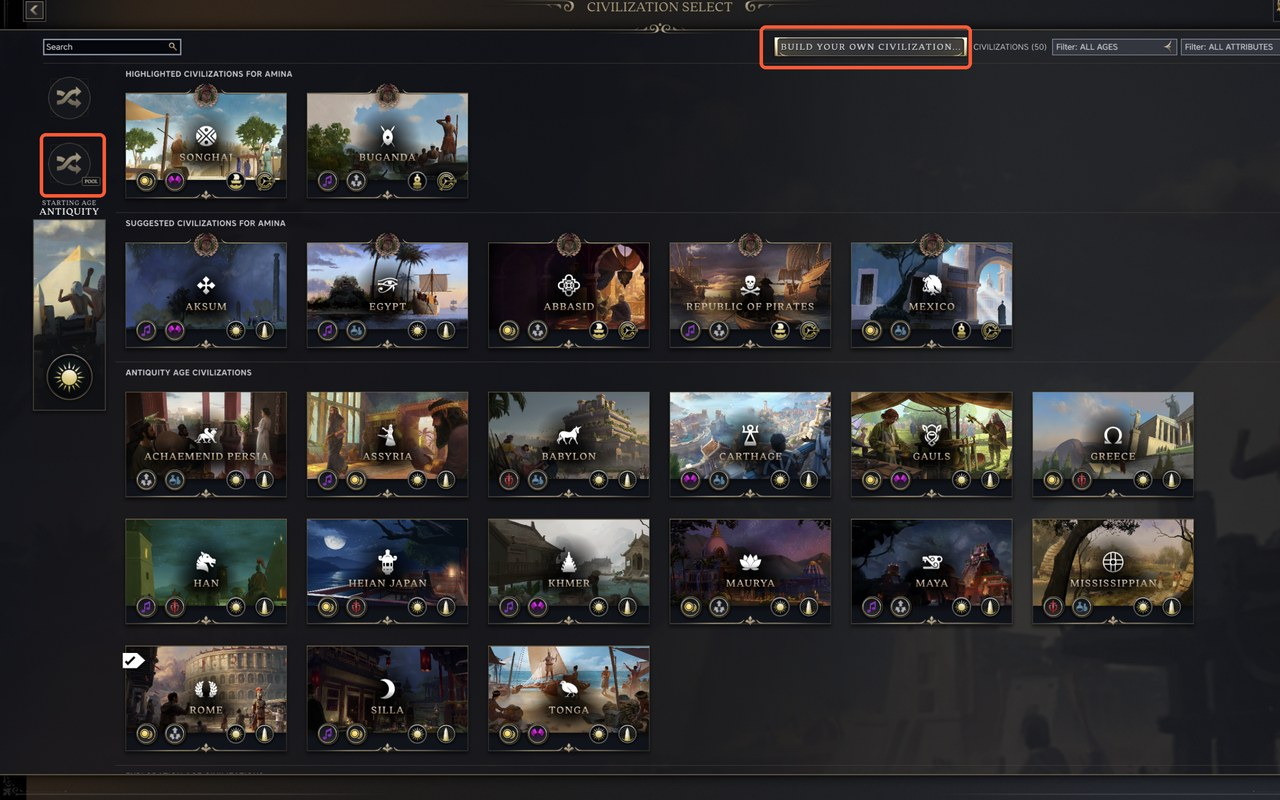
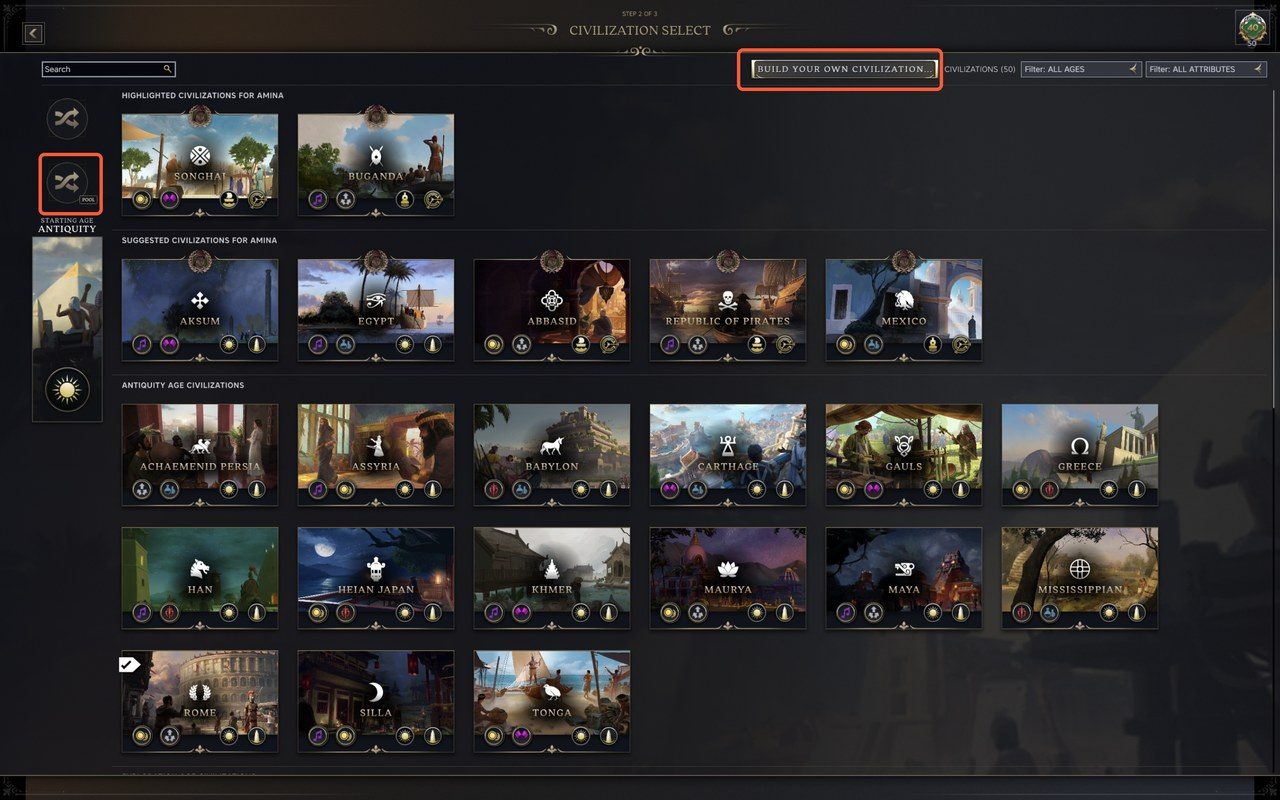
Screenshots: rebuilt with the full window, settings shot dropped
The builder cut 56 pixels off the top of every capture, though the captures have no title bar; it now cuts only when one is there. The settings shot showed the mod's old name and is out of both sets until it's retaken.

diff --git a/scripts/build-screenshots.py b/scripts/build-screenshots.py
@@ -2,12 +2,12 @@
 
     python3 -I scripts/build-screenshots.py <raw folder>
 
-Each <raw folder>/NN-name.png (a `screencapture -o -l <window>` of the game window, title bar included) becomes:
+Each <raw folder>/NN-name.png (a `screencapture -o -l <window>` of the game window) becomes:
 
     docs/steam-screenshots/NN-name.jpg   1920x1200, for the Steam Workshop page
     docs/screenshots/NN-name.jpg         1280x800, for the README and the GitHub release
 
-The title bar is cut off, the rest is trimmed to 16:10 from the right and scaled.
+A title bar, when the capture has one, is cut off; the rest is trimmed to 16:10 and scaled.
 
 CROPS adds zoomed-in close-ups of one part of a capture (the new buttons on the leader and civilization select),
 numbered in sequence with the full shots at 1600 (Steam) and 960 (GitHub) pixels wide. The JPEGs are written from the
@@ -39,7 +39,10 @@ RATIO = 16 / 10
 
 def crop(img):
     w, h = img.size
-    img = img.crop((0, TITLE_BAR, w, h))
+    # A capture of the whole window carries the title bar and is that much taller than 16:10; one of the game's
+    # content alone (3024x1890) has none to cut.
+    if h - round(w / RATIO) >= TITLE_BAR - 8:
+        img = img.crop((0, TITLE_BAR, w, h))
     w, h = img.size
     if w / h > RATIO:
         # Trimmed from the right: the game's panels sit at the left edge, the leader art at the right.

diff --git a/README.md b/README.md
@@ -52,7 +52,6 @@ Steam doesn't take the preview through `steamcmd` for this account, so it goes u
 
 ## Screenshots
 
-![Uncharted Leaders & Civs Settings in Advanced Options](docs/screenshots/01-settings.jpg)
 ![A leader's mixed bonuses on the leader select, the new buttons boxed](docs/screenshots/02-leader-select.jpg)
 ![The Leader pool button beside Random](docs/screenshots/03-leader-pool-button.jpg)
 ![The Build your own leader button](docs/screenshots/04-build-your-own-leader.jpg)
